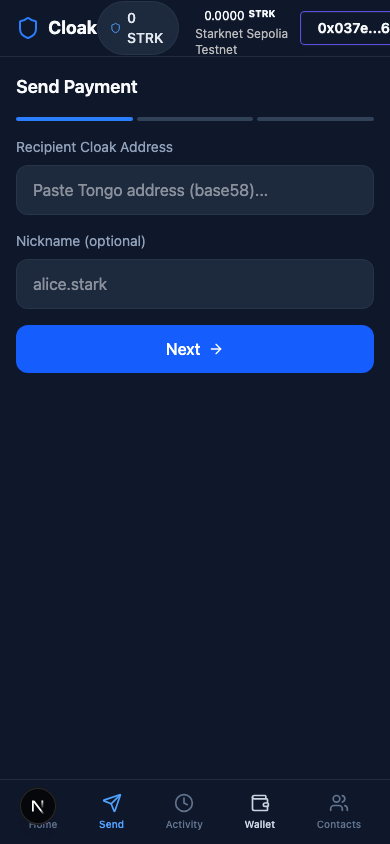
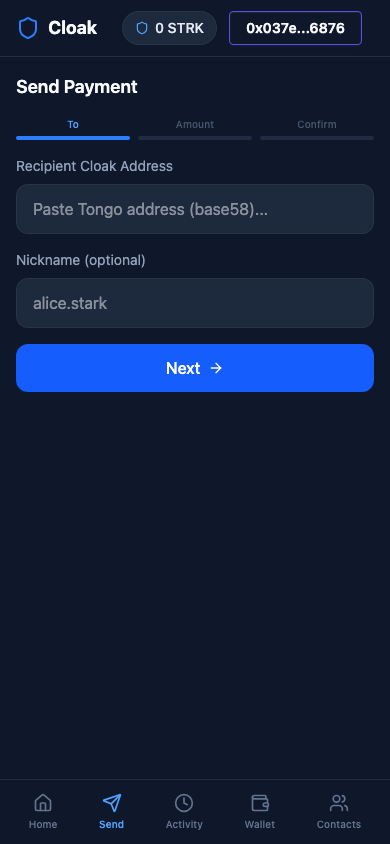
Design polish: hero card, gradient wallet, step labels, fix dev indicator
- Add shielded balance hero card with gradient glow on home page
- Improve wallet balance card with blue/violet gradient and blur effects
- Add step labels (To/Amount/Confirm) to send wizard progress bar
- Style emoji quick-pick bar with bordered buttons and horizontal scroll
- Simplify header by removing redundant Balance and chain name display
- Disable Next.js dev indicator that overlapped bottom nav Home icon
- Update all screenshots

diff --git a/packages/nextjs/app/wallet/page.tsx b/packages/nextjs/app/wallet/page.tsx
@@ -230,35 +230,38 @@ export default function WalletPage() {
       <TokenSelector selected={selectedToken} onSelect={setSelectedToken} />
 
       {/* Balance card */}
-      <div className="bg-gradient-to-br from-slate-800 to-slate-800/50 rounded-2xl p-6 border border-slate-700/50">
-        <div className="flex items-center justify-between mb-1">
-          <span className="text-sm text-slate-400 flex items-center gap-1.5">
-            <Shield className="w-4 h-4 text-blue-400" />
-            Shielded Balance
-          </span>
-          <button
-            onClick={() => setShowBalance(!showBalance)}
-            className="text-slate-500 hover:text-slate-300 transition-colors"
-          >
-            {showBalance ? (
-              <EyeOff className="w-4 h-4" />
+      <div className="relative overflow-hidden rounded-2xl p-6 bg-gradient-to-br from-blue-600/15 via-slate-800 to-violet-600/15 border border-blue-500/20">
+        <div className="absolute top-0 right-0 w-40 h-40 bg-blue-500/8 rounded-full blur-3xl -translate-y-10 translate-x-10" />
+        <div className="absolute bottom-0 left-0 w-32 h-32 bg-violet-500/8 rounded-full blur-2xl translate-y-8 -translate-x-8" />
+        <div className="relative">
+          <div className="flex items-center justify-between mb-2">
+            <span className="text-xs text-slate-400 uppercase tracking-wider font-medium flex items-center gap-1.5">
+              <Shield className="w-4 h-4 text-blue-400" />
+              Shielded Balance
+            </span>
+            <button
+              onClick={() => setShowBalance(!showBalance)}
+              className="text-slate-500 hover:text-slate-300 transition-colors"
+            >
+              {showBalance ? (
+                <EyeOff className="w-4 h-4" />
+              ) : (
+                <Eye className="w-4 h-4" />
+              )}
+            </button>
+          </div>
+          <div className="text-3xl font-bold text-slate-50 mb-4">
+            {isLoading ? (
+              <div className="animate-pulse bg-slate-700 rounded h-9 w-32" />
+            ) : showBalance ? (
+              <>
+                {shieldedDisplay}{" "}
+                <span className="text-lg text-slate-400">{selectedToken}</span>
+              </>
             ) : (
-              <Eye className="w-4 h-4" />
+              "••••••"
             )}
-          </button>
-        </div>
-        <div className="text-3xl font-bold text-slate-50 mb-4">
-          {isLoading ? (
-            <div className="animate-pulse bg-slate-700 rounded h-9 w-32" />
-          ) : showBalance ? (
-            <>
-              {shieldedDisplay}{" "}
-              <span className="text-lg text-slate-400">{selectedToken}</span>
-            </>
-          ) : (
-            "••••••"
-          )}
-        </div>
+          </div>
 
         {/* Pending */}
         {pending > 0n && (
@@ -298,6 +301,7 @@ export default function WalletPage() {
             <ArrowUpFromLine className="w-4 h-4" />
             Unshield
           </button>
+        </div>
         </div>
       </div>
 

diff --git a/packages/nextjs/app/send/page.tsx b/packages/nextjs/app/send/page.tsx
@@ -105,17 +105,38 @@ export default function SendPage() {
 
       {/* Step indicator */}
       {step !== "success" && (
-        <div className="flex gap-1">
-          {(["recipient", "amount", "note"] as const).map((s, i) => (
-            <div
-              key={s}
-              className={`flex-1 h-1 rounded-full ${
-                (["recipient", "amount", "note"] as const).indexOf(step) >= i
-                  ? "bg-blue-500"
-                  : "bg-slate-700"
-              }`}
-            />
-          ))}
+        <div className="flex gap-2">
+          {(
+            [
+              { key: "recipient", label: "To" },
+              { key: "amount", label: "Amount" },
+              { key: "note", label: "Confirm" },
+            ] as const
+          ).map(({ key, label }, i) => {
+            const currentIdx = (["recipient", "amount", "note"] as const).indexOf(step);
+            const isCompleted = currentIdx > i;
+            const isActive = currentIdx === i;
+            return (
+              <div key={key} className="flex-1 flex flex-col items-center gap-1">
+                <span
+                  className={`text-[10px] font-medium ${
+                    isActive
+                      ? "text-blue-400"
+                      : isCompleted
+                        ? "text-blue-400/60"
+                        : "text-slate-600"
+                  }`}
+                >
+                  {label}
+                </span>
+                <div
+                  className={`w-full h-1 rounded-full transition-colors ${
+                    isActive || isCompleted ? "bg-blue-500" : "bg-slate-700/50"
+                  }`}
+                />
+              </div>
+            );
+          })}
         </div>
       )}
 
@@ -279,12 +300,12 @@ export default function SendPage() {
               className="w-full bg-slate-800 rounded-xl border border-slate-700/50 px-4 py-3 text-slate-50 outline-none focus:border-blue-500/50 transition-colors"
               autoFocus
             />
-            <div className="flex gap-2 mt-2 flex-wrap">
+            <div className="flex gap-1.5 mt-3 overflow-x-auto pb-1 scrollbar-hide">
               {quickEmojis.map((emoji) => (
                 <button
                   key={emoji}
                   onClick={() => setNote((prev) => prev + emoji)}
-                  className="text-xl hover:scale-110 transition-transform"
+                  className="text-lg w-9 h-9 flex items-center justify-center rounded-lg bg-slate-800/80 hover:bg-slate-700 border border-slate-700/30 hover:border-blue-500/30 transition-all hover:scale-105 shrink-0"
                 >
                   {emoji}
                 </button>

diff --git a/packages/nextjs/app/page.tsx b/packages/nextjs/app/page.tsx
@@ -96,7 +96,36 @@ function ConnectedHome() {
   const { events, isLoading } = useTongoHistory();
 
   return (
-    <div className="flex flex-col gap-4">
+    <div className="flex flex-col gap-5">
+      {/* Balance hero card */}
+      <Link
+        href="/wallet"
+        className="relative overflow-hidden rounded-2xl p-5 bg-gradient-to-br from-blue-600/20 via-slate-800 to-violet-600/20 border border-blue-500/20 hover:border-blue-500/40 transition-all group"
+      >
+        <div className="absolute top-0 right-0 w-32 h-32 bg-blue-500/10 rounded-full blur-3xl -translate-y-8 translate-x-8" />
+        <div className="absolute bottom-0 left-0 w-24 h-24 bg-violet-500/10 rounded-full blur-2xl translate-y-6 -translate-x-6" />
+        <div className="relative">
+          <div className="flex items-center gap-1.5 mb-2">
+            <Shield className="w-4 h-4 text-blue-400" />
+            <span className="text-xs text-slate-400 uppercase tracking-wider font-medium">
+              Shielded Balance
+            </span>
+          </div>
+          <div className="text-3xl font-bold text-slate-50 mb-1">
+            {shieldedDisplay}{" "}
+            <span className="text-lg text-slate-400">{selectedToken}</span>
+          </div>
+          {pending > 0n && (
+            <div className="flex items-center gap-1.5 mt-2">
+              <div className="w-1.5 h-1.5 rounded-full bg-amber-400 animate-pulse" />
+              <span className="text-xs text-amber-400/80">
+                Pending funds available to claim
+              </span>
+            </div>
+          )}
+        </div>
+      </Link>
+
       {/* Quick actions */}
       <div className="flex gap-3">
         <Link
@@ -131,10 +160,16 @@ function ConnectedHome() {
             ))}
           </div>
         ) : (
-          <div className="text-center py-12 text-slate-500">
-            <Shield className="w-10 h-10 mx-auto mb-3 text-slate-600" />
-            <p className="text-sm">No transactions yet</p>
-            <p className="text-xs mt-1">Shield some funds to get started</p>
+          <div className="text-center py-10">
+            <div className="relative inline-block mb-4">
+              <div className="absolute inset-0 bg-blue-500/15 rounded-full blur-xl" />
+              <Shield className="w-12 h-12 text-slate-600 relative" />
+            </div>
+            <p className="text-sm text-slate-400 mb-1">No transactions yet</p>
+            <p className="text-xs text-slate-500">
+              Head to <span className="text-blue-400">Wallet</span> to shield
+              funds and start sending
+            </p>
           </div>
         )}
       </div>

diff --git a/packages/nextjs/components/scaffold-stark/CustomConnectButton/index.tsx b/packages/nextjs/components/scaffold-stark/CustomConnectButton/index.tsx
@@ -2,12 +2,11 @@
 import { useEffect, useMemo, useState } from "react";
 import { useConnect, useNetwork } from "@starknet-react/core";
 import { Address } from "@starknet-react/chains";
-import { Balance } from "../Balance";
 import { AddressInfoDropdown } from "./AddressInfoDropdown";
 import { WrongNetworkDropdown } from "./WrongNetworkDropdown";
 import ConnectModal from "./ConnectModal";
 import { AddressQRCodeModal } from "./AddressQRCodeModal";
-import { useAutoConnect, useNetworkColor } from "~~/hooks/scaffold-stark";
+import { useAutoConnect } from "~~/hooks/scaffold-stark";
 import { useTargetNetwork } from "~~/hooks/scaffold-stark/useTargetNetwork";
 import { useAccount } from "~~/hooks/useAccount";
 import { getBlockExplorerAddressLink } from "~~/utils/scaffold-stark";
@@ -15,7 +14,6 @@ import { useReadLocalStorage } from "usehooks-ts";
 
 export const CustomConnectButton = () => {
   useAutoConnect();
-  const networkColor = useNetworkColor();
   const { connector } = useConnect();
   const { targetNetwork } = useTargetNetwork();
   const { chain } = useNetwork();
@@ -31,7 +29,6 @@ export const CustomConnectButton = () => {
       : "";
   }, [accountAddress, targetNetwork]);
 
-  // effect to get chain id and address from account
   useEffect(() => {
     const getChainId = async () => {
       try {
@@ -45,7 +42,6 @@ export const CustomConnectButton = () => {
         console.error("Failed to get chainId:", err);
       }
     };
-
     getChainId();
   }, [account, status, chain?.id]);
 
@@ -76,7 +72,7 @@ export const CustomConnectButton = () => {
       <button
         type="button"
         disabled
-        className="w-36 h-10 rounded-xl bg-gray-200 dark:bg-gray-700 animate-pulse"
+        className="w-20 h-8 rounded-lg bg-slate-700 animate-pulse"
       >
         &nbsp;
       </button>
@@ -89,15 +85,7 @@ export const CustomConnectButton = () => {
 
   return (
     <>
-      <div className="flex flex-col items-center max-sm:mt-2">
-        <Balance
-          address={accountAddress as Address}
-          className="min-h-0 h-auto"
-        />
-        <span className="text-xs ml-1" style={{ color: networkColor }}>
-          {chain.name}
-        </span>
-      </div>
+      {/* Minimal address chip only — no Balance, no chain name */}
       <AddressInfoDropdown
         address={accountAddress as Address}
         displayName=""
